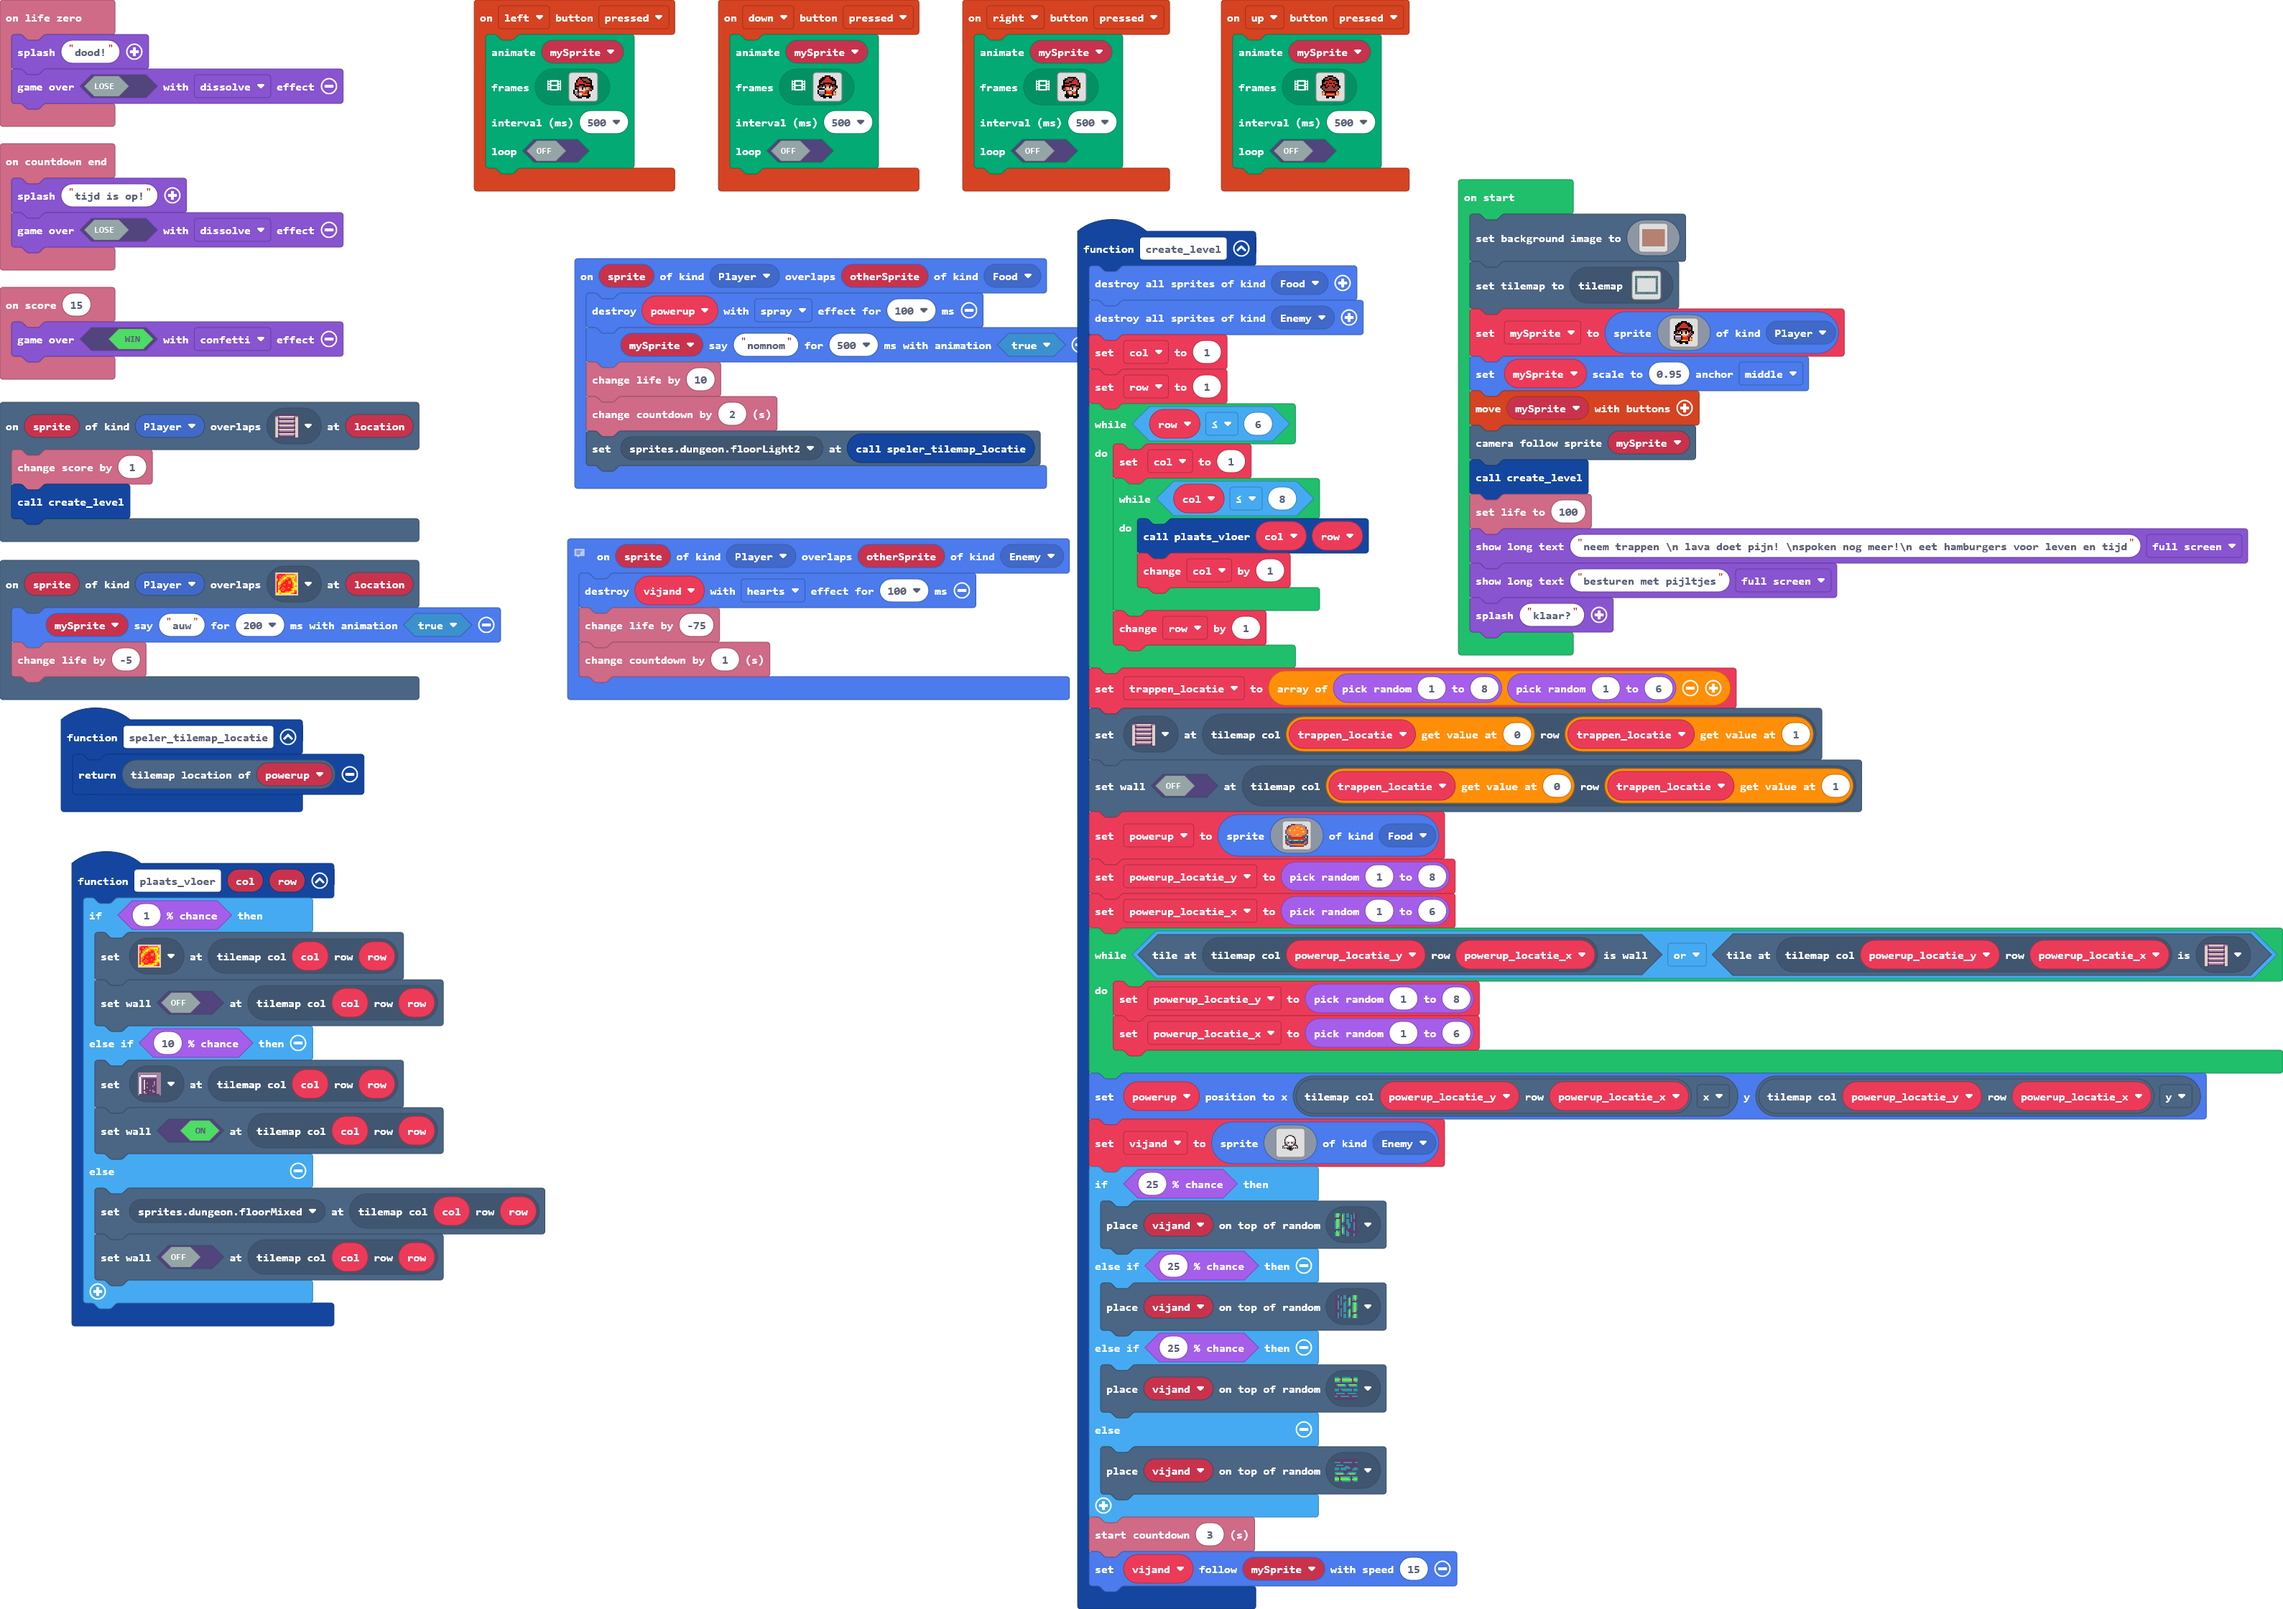
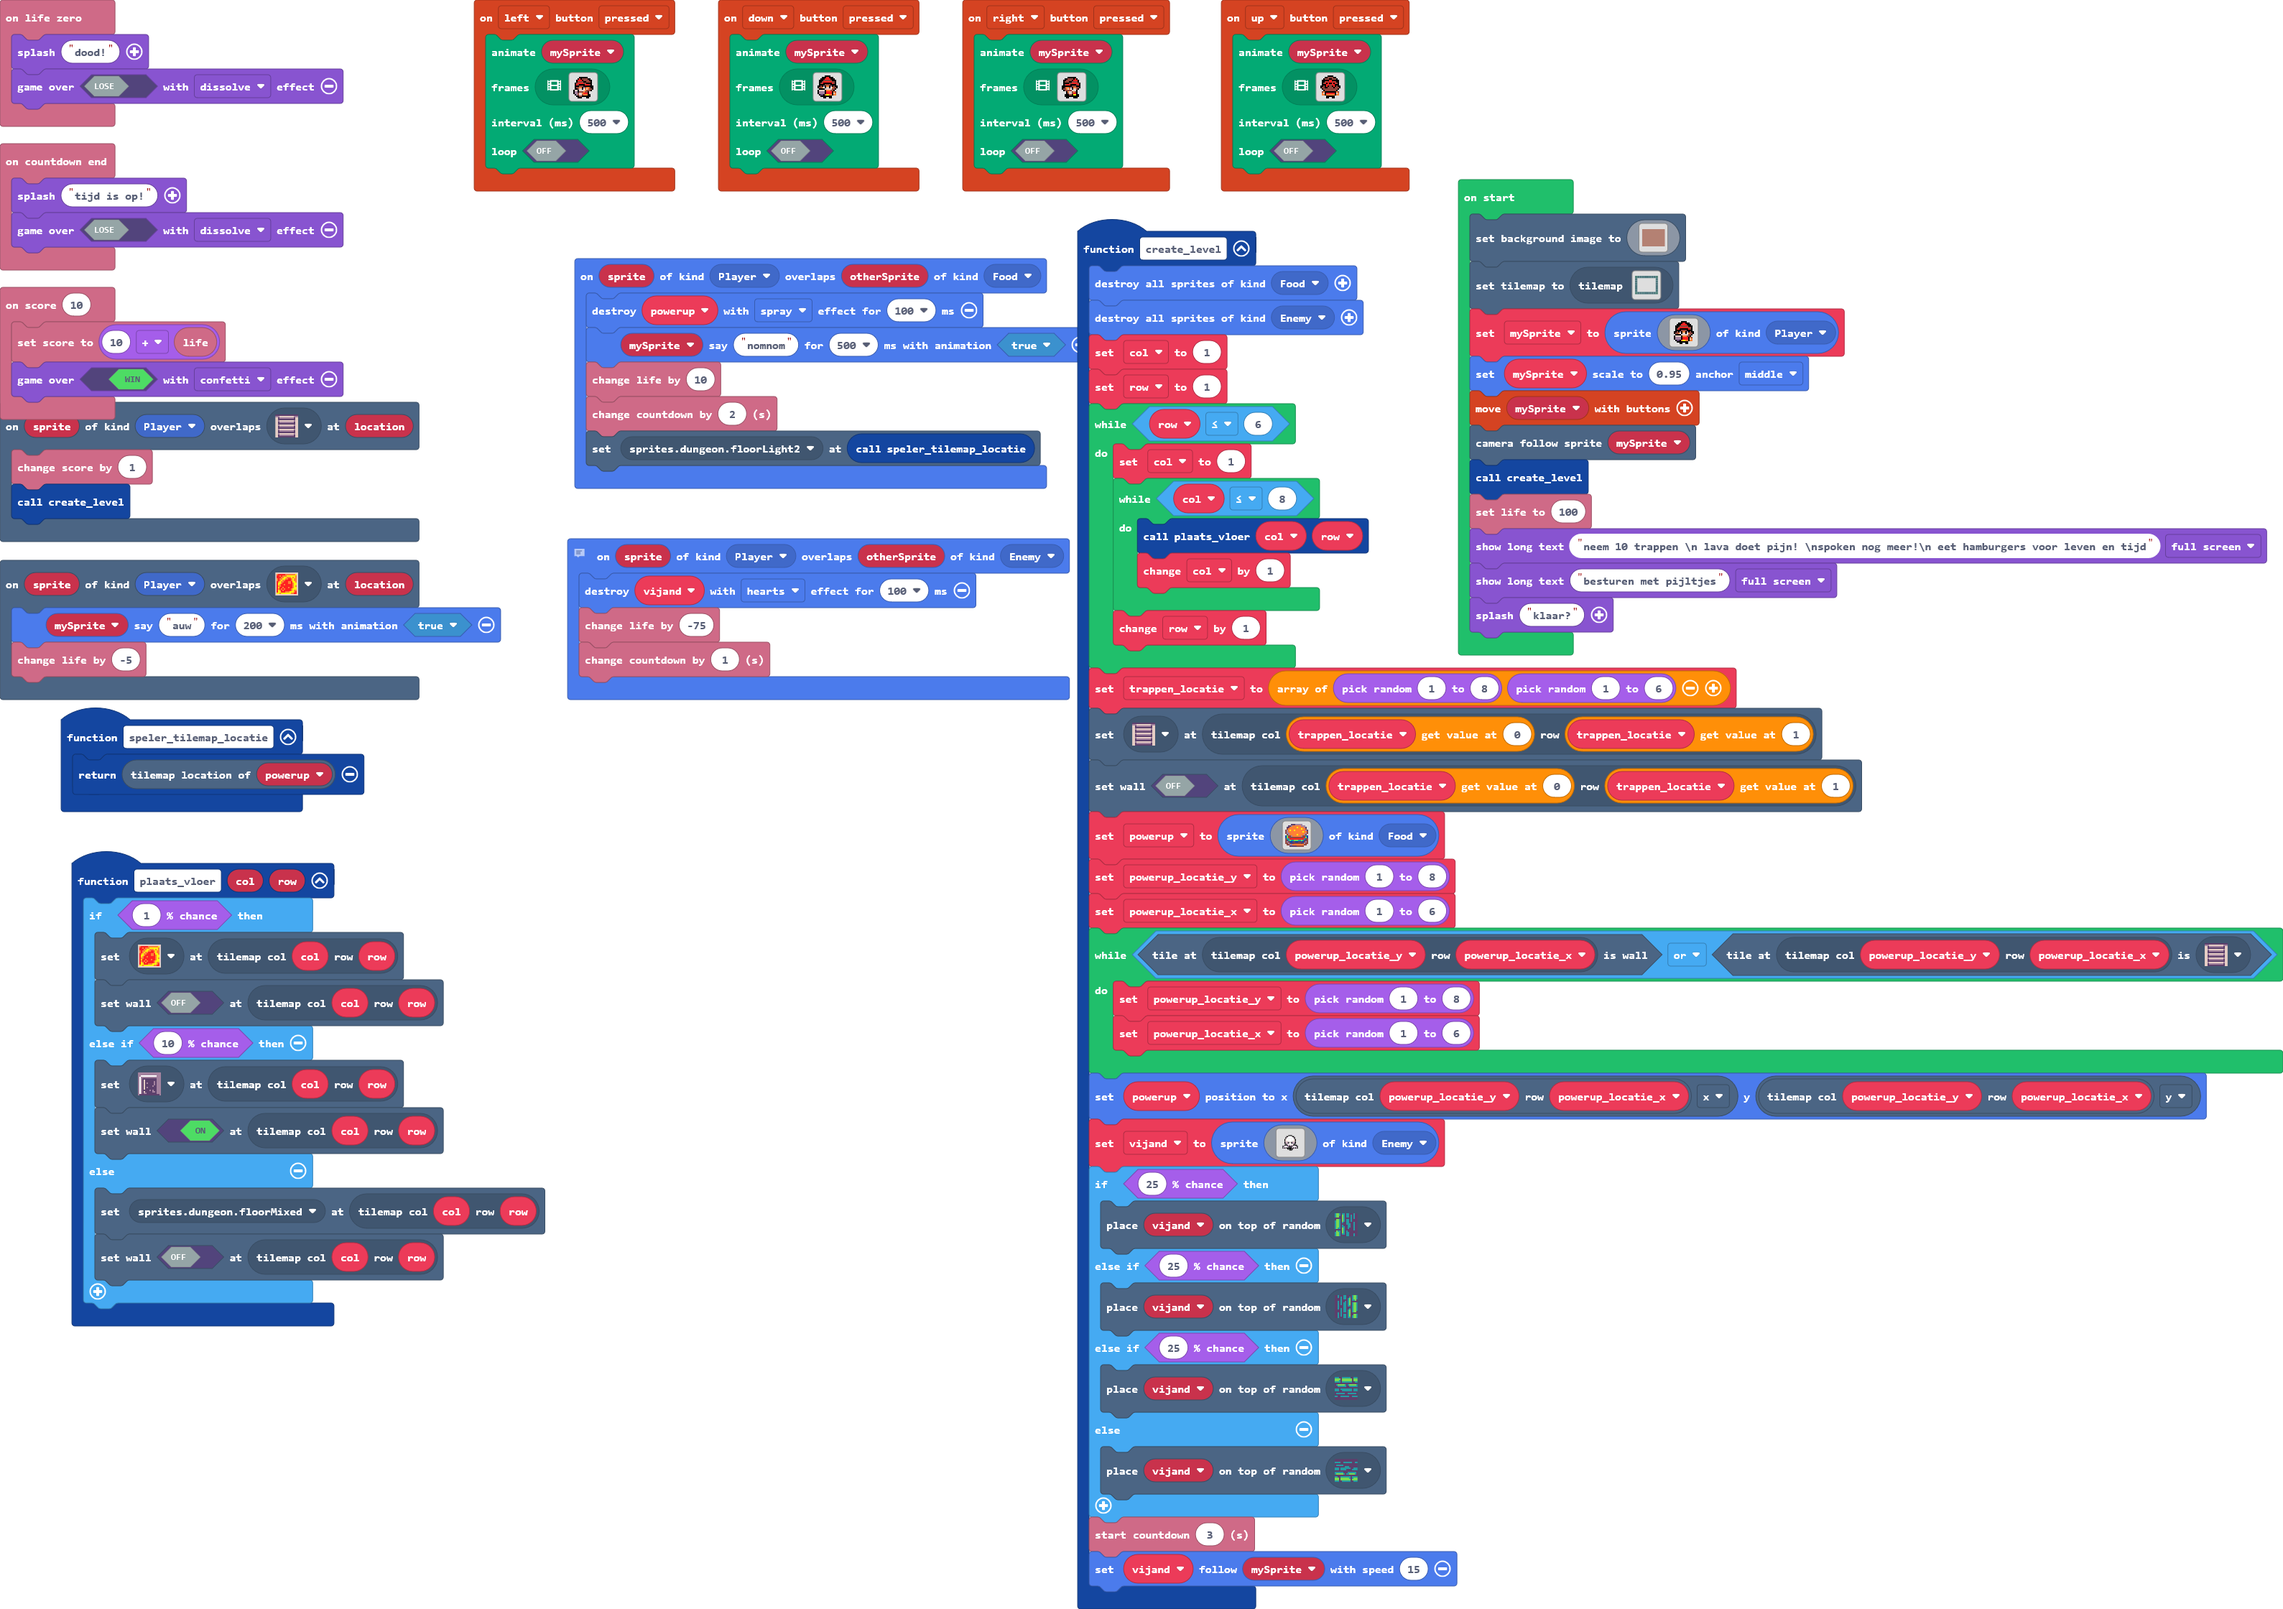
natuurlijk is de highest score altijd 15... high score now is 10+life

Changed region(s): [[0.0, 0.1875, 0.1558, 0.2812], [0.9346, 0.3125, 0.9969, 0.3438]]

diff --git a/main.ts b/main.ts
@@ -82,9 +82,6 @@ scene.onOverlapTile(SpriteKind.Player, assets.tile`myTile`, function (sprite, lo
     mySprite.sayText("auw", 200, true)
     info.changeLifeBy(-5)
 })
-info.onScore(15, function () {
-    game.over(true, effects.confetti)
-})
 controller.left.onEvent(ControllerButtonEvent.Pressed, function () {
     animation.runImageAnimation(
     mySprite,
@@ -168,6 +165,10 @@ info.onCountdownEnd(function () {
 function speler_tilemap_locatie () {
     return powerup.tilemapLocation()
 }
+info.onScore(10, function () {
+    info.setScore(10 + info.life())
+    game.over(true, effects.confetti)
+})
 controller.right.onEvent(ControllerButtonEvent.Pressed, function () {
     animation.runImageAnimation(
     mySprite,
@@ -582,6 +583,6 @@ controller.moveSprite(mySprite)
 scene.cameraFollowSprite(mySprite)
 create_level()
 info.setLife(100)
-game.showLongText("neem trappen \\n lava doet pijn! \\nspoken nog meer!\\n eet hamburgers voor leven en tijd", DialogLayout.Full)
+game.showLongText("neem 10 trappen \\n lava doet pijn! \\nspoken nog meer!\\n eet hamburgers voor leven en tijd", DialogLayout.Full)
 game.showLongText("besturen met pijltjes", DialogLayout.Full)
 game.splash("klaar?")
